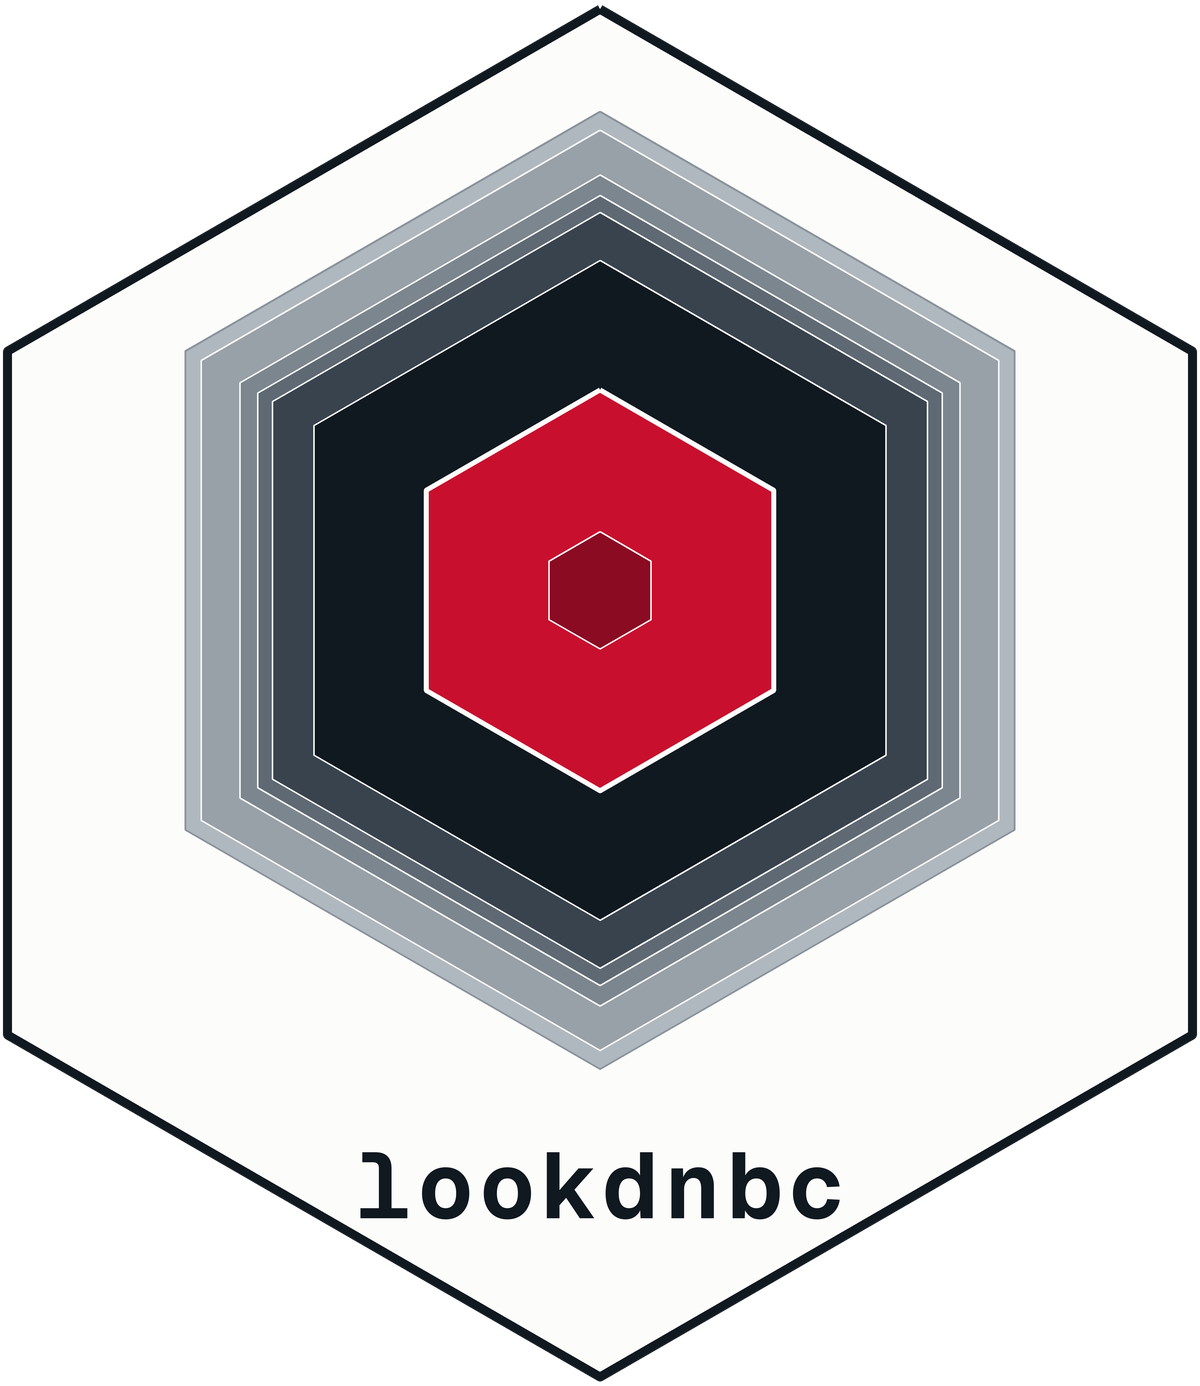
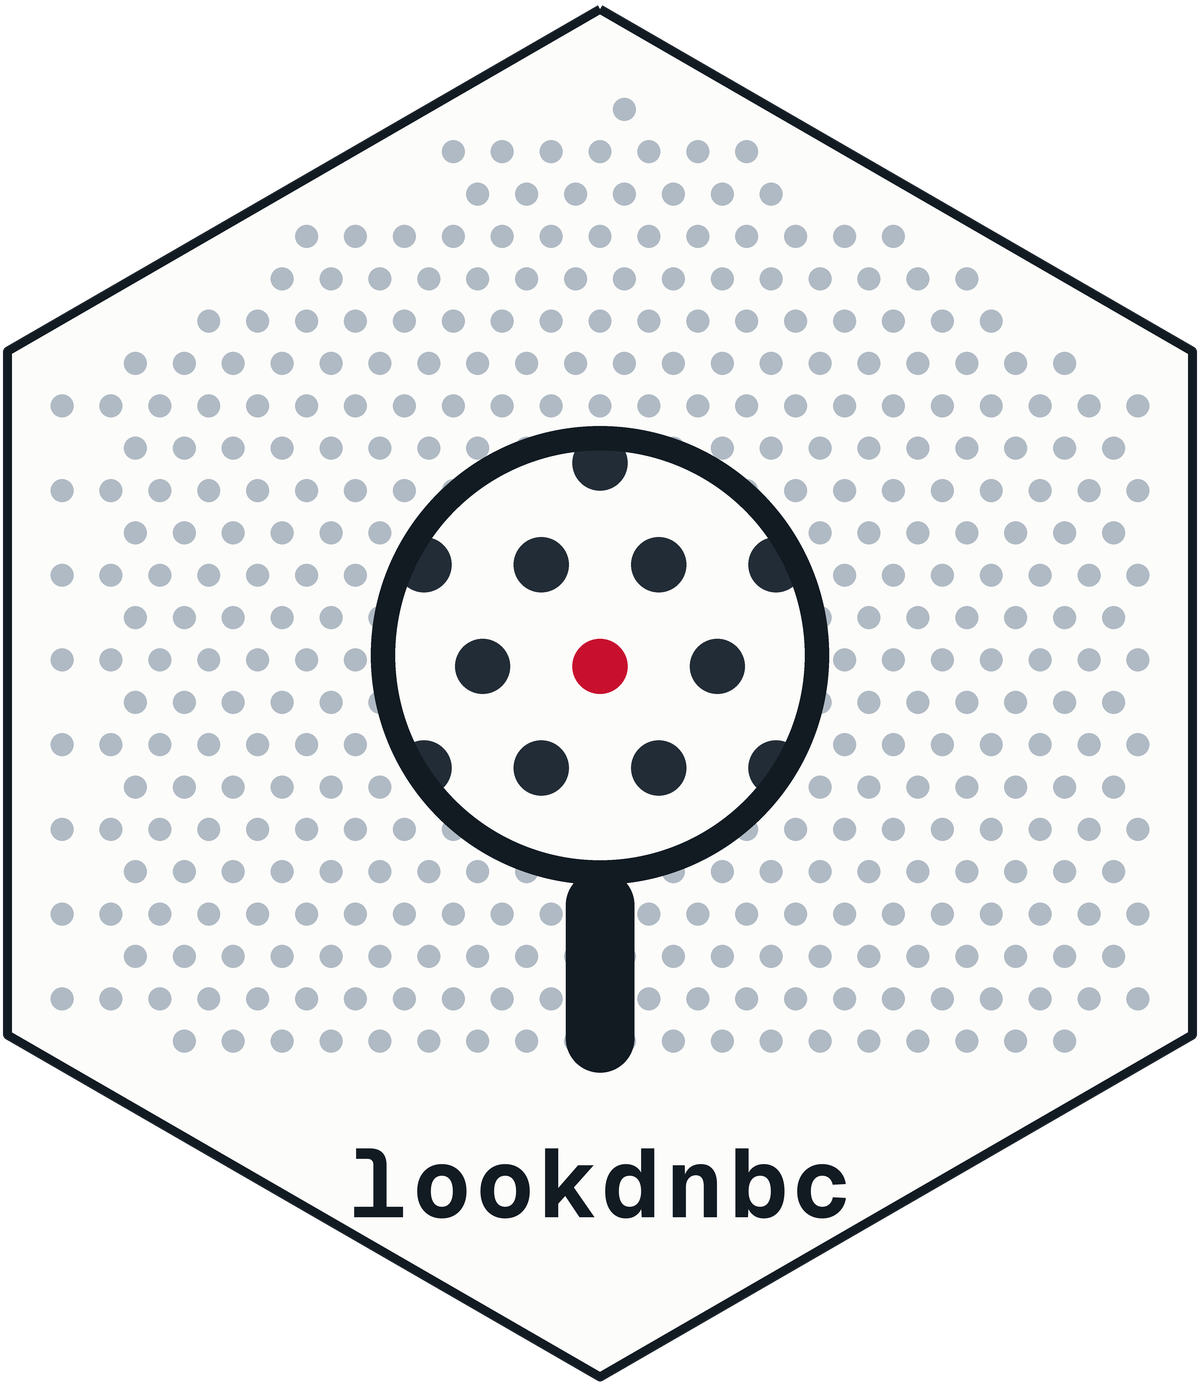
Redraw the hex: a magnifier over the codebook
The previous mark was austere and sat high in the frame, unbalanced against the
hexagon. This one is mirror-symmetric about the vertical axis and reads as what
the tool is at a glance.

The field is the codebook, thousands of marks deep. The lens enlarges the same
lattice at 2.4x rather than showing something different, because that is what
the tool does -- it does not summarise the codebook, it enlarges the part you
asked about. One mark under the glass is red: the variable you were looking for.

Drops the design philosophy note, which described the earlier stratigraphic
direction and no longer matches the drawing. The rationale now lives in the
generator's docstring, next to the code it explains.

diff --git a/design/make_hex.py b/design/make_hex.py
@@ -1,14 +1,12 @@
 #!/usr/bin/env python3
-"""Hex sticker for lookdnbc, drawn under the Sediment Logic philosophy.
+"""Hex sticker for lookdnbc.
 
-The composition is derived, not styled. One hairline ring is drawn for every 50 DNBC
-variables, laid down from the centre outward in questionnaire order, so a band's width is
-the wave's actual share of the codebooks: Interview 2 is broad because it holds 2,365
-variables, the 7-year follow-up is a seam because it holds 285. Growth rings, because that
-is what a birth cohort deposits.
+A field of small marks -- the codebook, thousands of variables deep -- with a glass held
+over it. Inside the lens the same lattice is drawn at 2.4x, because that is what the tool
+does: it does not summarise the codebook, it enlarges the part you asked about. One mark
+under the glass is red. That is the variable you were looking for.
 
-The single red ring falls between the two prenatal interviews and the six postnatal ones
--- birth, the one event in the record that changes what a question can be about.
+The composition is mirror-symmetric about the vertical axis.
 """
 
 import math
@@ -20,34 +18,15 @@ FONTS = ("/Users/jkv465/Library/Application Support/Claude/local-agent-mode-sess
          "skills-plugin/daa3638d-5ae5-4513-8df9-a726bbb712de/"
          "98737ba6-a80d-4334-97d1-73e917b749e2/skills/canvas-design/canvas-fonts")
 
-SS = 4                       # supersample factor
-W, H = 1200, 1386            # 2:sqrt(3), the hexb.in sticker proportion
+SS = 4
+W, H = 1200, 1386
 PAPER = (252, 252, 250, 255)
-INK = (16, 24, 32, 255)
-RED = (200, 16, 46, 255)     # Dansk flag red
+INK = (18, 26, 34, 255)
+RED = (200, 16, 46, 255)
+FIELD = (176, 186, 196, 255)      # the unexamined codebook
+GLASS = (34, 44, 54, 255)         # what the lens resolves
 
-# wave, variables -- innermost (earliest) to outermost (latest)
-WAVES = [
-    ("i1",   980),
-    ("i2",   2365),
-    ("i3",   2162),
-    ("i4",   801),
-    ("y7",   285),
-    ("y11c", 342),
-    ("y11a", 745),
-    ("y18",  309),
-]
-TOTAL = sum(n for _, n in WAVES)
-BIRTH_AFTER = 2              # red ring closes the prenatal record
-
-# tone lightens outward: the deep record is dense, the recent record thin
-# The prenatal record is chromatic; everything after birth is ink. The boundary
-# between the two zones IS birth -- the one event that changes what may be asked.
-RAMP = [
-    (139, 11, 35), (200, 16, 46),                       # i1, i2  -- in utero
-    (16, 24, 32), (56, 67, 78), (94, 105, 115),         # i3, i4, y7
-    (124, 134, 143), (152, 160, 168), (176, 184, 191),  # y11c, y11a, y18
-]
+MAG = 2.4
 
 
 def hexpath(cx, cy, r):
@@ -55,13 +34,37 @@ def hexpath(cx, cy, r):
             for t in (90, 30, -30, -90, -150, 150)]
 
 
-def ring(d, cx, cy, r, colour, width):
-    p = hexpath(cx, cy, r)
-    d.line(p + [p[0]], fill=colour, width=width, joint="curve")
+def half_width(dy, R):
+    a = abs(dy)
+    if a >= R:
+        return 0.0
+    return math.sqrt(3) * R / 2.0 if a <= R / 2.0 else math.sqrt(3) * (R - a)
+
+
+def lattice(cx, cy, R, s):
+    """Hex-packed points filling a pointy-top hexagon."""
+    pts, row = [], 0
+    dy = s * math.sqrt(3) / 2.0
+    y = cy - R
+    while y <= cy + R:
+        hw = half_width(y - cy, R)
+        if hw > 0:
+            off = (s / 2.0) if (row % 2) else 0.0
+            k = int((hw - off) / s)
+            for i in range(-k, k + 1):
+                x = off + i * s
+                if abs(x) <= hw:
+                    pts.append((cx + x, y))
+        y += dy
+        row += 1
+    return pts
+
+
+def dot(d, x, y, r, fill):
+    d.ellipse([x - r, y - r, x + r, y + r], fill=fill)
 
 
 def letterspaced(draw, text, font, cx, y, tracking, fill):
-    """Draw text centred on cx with explicit tracking, PIL having no such notion."""
     widths = [draw.textlength(ch, font=font) for ch in text]
     total = sum(widths) + tracking * (len(text) - 1)
     x = cx - total / 2.0
@@ -77,51 +80,65 @@ def build():
     d = ImageDraw.Draw(img)
 
     cx, cy = w / 2.0, h / 2.0
-    R = h / 2.0 - 9 * SS                       # outer hexagon circumradius
-
+    R = h / 2.0 - 9 * SS
     d.polygon(hexpath(cx, cy, R), fill=PAPER)
 
-    # --- growth rings ------------------------------------------------------
-    # One band per wave. Radial thickness is the wave's share of the codebooks,
-    # the way a tree ring's width records a year. Rings sit above centre so the
-    # nameplate has clean ground beneath them.
-    yc = cy - 0.150 * R
-    r_out = 0.700 * R
-    r_core = 0.0
+    # --- the codebook: a field of small marks -----------------------------
+    R_field = R - 58 * SS
+    s = 0.0715 * R
+    r_small = s * 0.235
 
-    edges, acc = [r_core], 0.0
-    for _, n in WAVES:
-        acc += n / float(TOTAL)
-        edges.append(r_core + (r_out - r_core) * acc)
+    lx, ly = cx, cy - 0.055 * R          # lens centre, on the axis
+    lr = 0.335 * R                       # lens radius
+    plate_top = cy + 0.545 * R
 
-    # painter's order: outermost first, each inner band laid over the last
-    for wi in range(len(WAVES) - 1, -1, -1):
-        d.polygon(hexpath(cx, yc, edges[wi + 1]), fill=RAMP[wi] + (255,))
+    pts = lattice(cx, cy, R_field, s)
+    for (x, y) in pts:
+        if y > plate_top:
+            continue                     # nameplate keeps its own ground
+        dot(d, x, y, r_small, FIELD)
 
-    # hairline seams so each deposit reads as its own layer
-    for r in edges[1:-1]:
-        ring(d, cx, yc, r, PAPER, max(2, int(1.5 * SS)))
-    ring(d, cx, yc, edges[-1], (138, 147, 155, 255), max(2, int(1.8 * SS)))
+    # --- the handle, on the axis ------------------------------------------
+    hw_ = 0.050 * R
+    d.rounded_rectangle([cx - hw_, ly + lr - 0.02 * R, cx + hw_, ly + lr + 0.275 * R],
+                        radius=hw_, fill=INK)
 
-    # --- birth: the edge of the chromatic zone -----------------------------
-    ring(d, cx, yc, edges[BIRTH_AFTER], PAPER, int(5 * SS))
+    # --- the glass ---------------------------------------------------------
+    lens = Image.new("RGBA", (w, h), (0, 0, 0, 0))
+    ld = ImageDraw.Draw(lens)
+    ld.ellipse([lx - lr, ly - lr, lx + lr, ly + lr], fill=PAPER)
+
+    # the same lattice, enlarged about the lens centre
+    inner = lr / MAG + s
+    best = min(pts, key=lambda p: (p[0] - lx) ** 2 + (p[1] - ly) ** 2)
+    for (x, y) in pts:
+        if abs(x - lx) > inner or abs(y - ly) > inner:
+            continue
+        mx = lx + (x - lx) * MAG
+        my = ly + (y - ly) * MAG
+        if (mx - lx) ** 2 + (my - ly) ** 2 > (lr - r_small * MAG * 0.7) ** 2:
+            continue
+        dot(ld, mx, my, r_small * MAG, RED if (x, y) == best else GLASS)
+
+    mask = Image.new("L", (w, h), 0)
+    ImageDraw.Draw(mask).ellipse([lx - lr, ly - lr, lx + lr, ly + lr], fill=255)
+    img.paste(lens, (0, 0), mask)
+
+    rim = int(0.036 * R)
+    d.ellipse([lx - lr, ly - lr, lx + lr, ly + lr], outline=INK, width=rim)
 
     # --- nameplate ---------------------------------------------------------
-    f = ImageFont.truetype(os.path.join(FONTS, "GeistMono-Bold.ttf"), int(93 * SS))
+    f = ImageFont.truetype(os.path.join(FONTS, "GeistMono-Bold.ttf"), int(97 * SS))
     asc, _ = f.getmetrics()
-    letterspaced(d, "lookdnbc", f, cx, cy + 0.738 * R - asc * 0.78, 6.0 * SS, INK)
+    letterspaced(d, "lookdnbc", f, cx, cy + 0.735 * R - asc * 0.78, 5.0 * SS, INK)
 
-    # --- border ------------------------------------------------------------
-    ring(d, cx, cy, R, INK, int(9 * SS))
+    d.line(hexpath(cx, cy, R) + [hexpath(cx, cy, R)[0]], fill=INK,
+           width=int(9 * SS), joint="curve")
 
     out = img.resize((W, H), Image.LANCZOS)
-    path = os.path.join(HERE, "lookdnbc-hex.png")
-    out.save(path)
-    print("wrote %s" % path)
-    for wi, (name, cnt) in enumerate(WAVES):
-        t = (edges[wi + 1] - edges[wi]) / (r_out - r_core)
-        print("   %-5s %5d vars (%4.1f%%) -> band %4.1f%% of radius"
-              % (name, cnt, 100.0 * cnt / TOTAL, 100.0 * t))
+    p = os.path.join(HERE, "lookdnbc-hex.png")
+    out.save(p)
+    print("wrote %s  (%d marks in the field, lens at %.1fx)" % (p, len(pts), MAG))
 
 
 if __name__ == "__main__":
